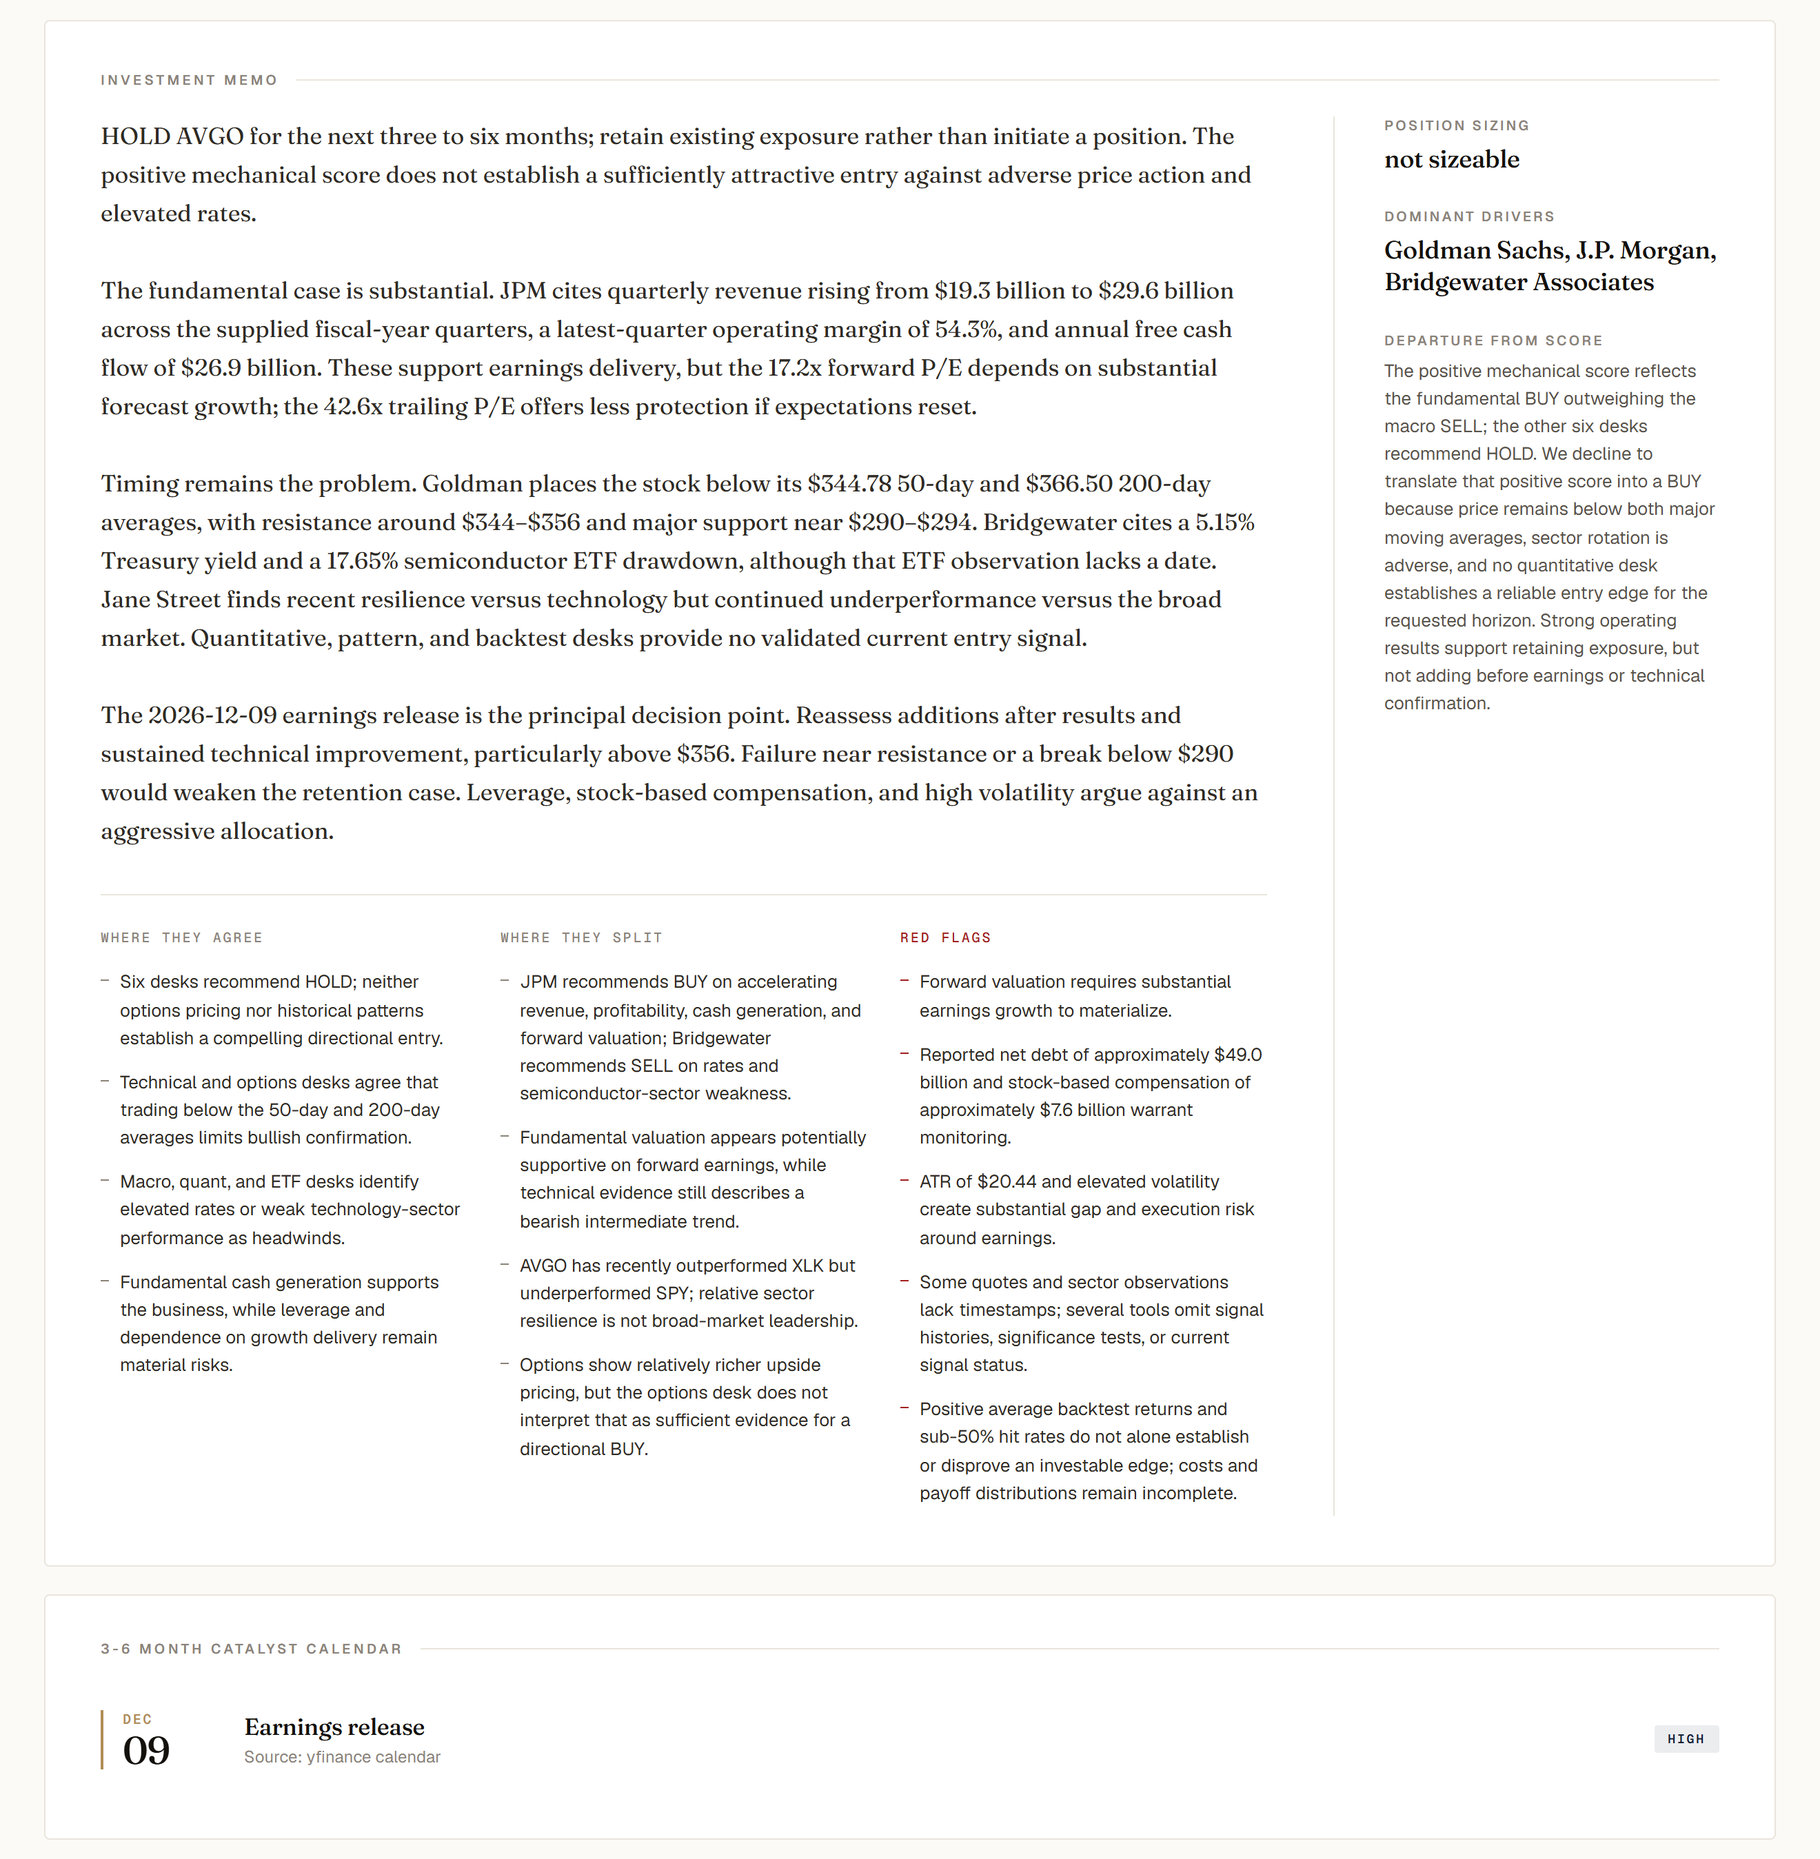
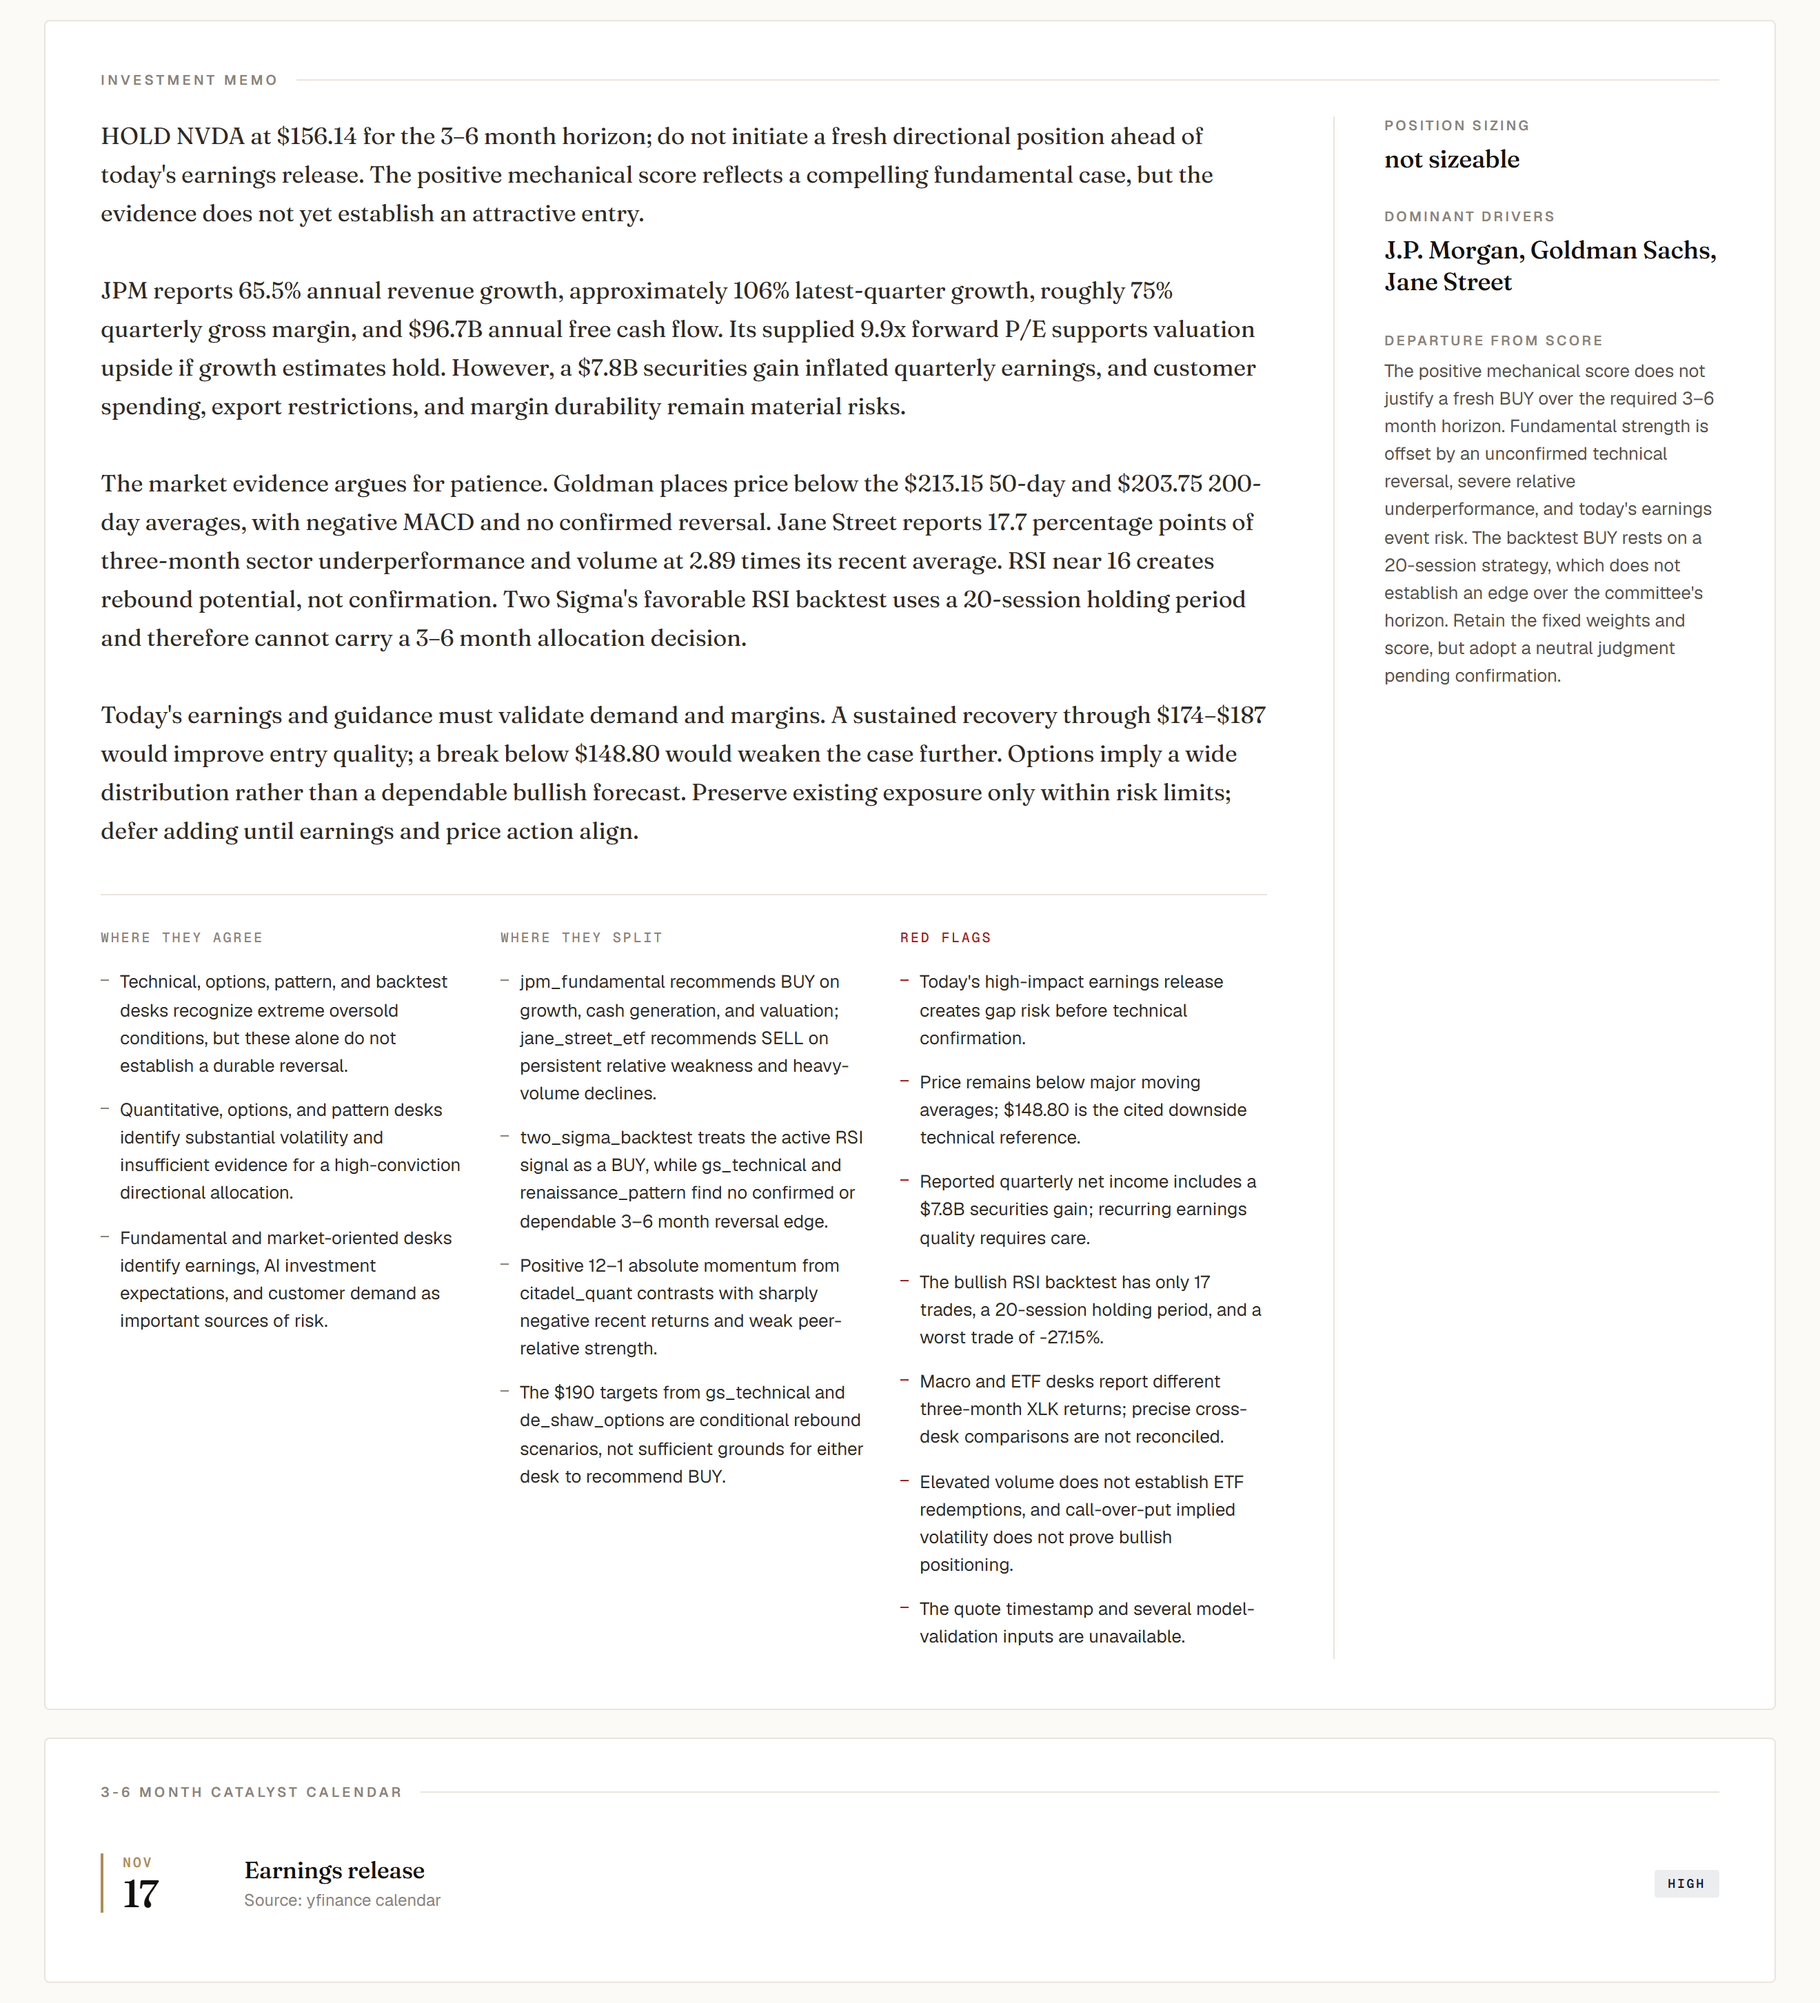
polish(ui): restore tab, spinner and page styling under Gradio 6.32; history refreshes on open; README shows a live run
The Gradio upgrade renamed the tab strip and dropped the spinner's border,
so both had silently fallen back to defaults. History now reloads when the
tab opens instead of polling. README screenshots come from an end-to-end
NVDA run driven through the web UI, including the live progress card.

Claude-Session: https://claude.ai/code/session_017hq6XL2Prx1LLnTUxuNErU

diff --git a/equity_trader/ui.css b/equity_trader/ui.css
@@ -56,6 +56,7 @@
   -webkit-font-smoothing: antialiased;
   -moz-osx-font-smoothing: grayscale;
 }
+body, gradio-app { background: var(--paper) !important; }
 .gradio-container {
   background: var(--paper) !important;
   color: var(--ink-1) !important;
@@ -65,8 +66,8 @@
 }
 .gradio-container .prose { color: var(--ink-2); }
 footer, .show-api, .built-with, .footer { display: none !important; }
-.tabs > .tab-nav { border-bottom: 1px solid var(--border) !important; padding: 0 32px !important; }
-.tabs > .tab-nav button {
+.tabs .tab-container { border-bottom: 1px solid var(--border) !important; padding: 0 32px !important; }
+.tabs .tab-container button {
   font-family: var(--font-body) !important;
   font-size: 12px !important;
   font-weight: 500 !important;
@@ -81,10 +82,11 @@ footer, .show-api, .built-with, .footer { display: none !important; }
   border-radius: 0 !important;
   transition: color 0.2s ease, border-color 0.2s ease !important;
 }
-.tabs > .tab-nav button:hover { color: var(--ink-2) !important; }
-.tabs > .tab-nav button.selected {
+.tabs .tab-container button::after { display: none !important; }
+.tabs .tab-container button:hover { color: var(--ink-2) !important; }
+.tabs .tab-container button.selected {
   color: var(--navy) !important;
-  border-bottom-color: var(--gold) !important;
+  box-shadow: inset 0 -2px 0 var(--gold) !important;
 }
 
 /* ============================================================
@@ -955,8 +957,10 @@ footer, .show-api, .built-with, .footer { display: none !important; }
 .loading-mark {
   width: 56px;
   height: 56px;
-  border: 1.5px solid var(--navy);
-  border-top-color: transparent;
+  /* Longhands: Gradio drops a border shorthand that a longhand then overrides */
+  border-style: solid;
+  border-width: 1.5px;
+  border-color: transparent var(--navy) var(--navy) var(--navy);
   border-radius: 50%;
   margin: 0 auto 24px;
   animation: spin 1.1s linear infinite;

diff --git a/app.py b/app.py
@@ -489,19 +489,20 @@ with gr.Blocks(title="EquityTrader", fill_width=True) as demo:
         with gr.Row(elem_classes="report"):
             report = gr.HTML(_welcome_html())
 
-        run_btn.click(analyze, inputs=ticker, outputs=report)
-        ticker.submit(analyze, inputs=ticker, outputs=report)
+        # The loading card is the progress display; hide Gradio's own.
+        run_btn.click(analyze, inputs=ticker, outputs=report, show_progress="hidden")
+        ticker.submit(analyze, inputs=ticker, outputs=report, show_progress="hidden")
 
-    with gr.Tab("History"):
+    with gr.Tab("History") as history_tab:
         with gr.Row(elem_classes="history-wrap"):
-            gr.Dataframe(
+            history = gr.Dataframe(
                 value=history_table,
-                headers=["Ticker", "Timestamp", "Rec", "Conviction", "Score", "Target"],
-                every=10,
+                headers=["Ticker", "Run (UTC)", "Call", "Conv.", "Score", "Target"],
                 elem_classes="history-table",
                 interactive=False,
                 wrap=False,
             )
+    history_tab.select(history_table, outputs=history)
 
 
 if __name__ == "__main__":

diff --git a/README.md b/README.md
@@ -23,6 +23,7 @@
 
 <a href="#quick-start">Quick start</a> &nbsp;&middot;&nbsp;
 <a href="#the-committee">The committee</a> &nbsp;&middot;&nbsp;
+<a href="#a-run-live">A run, live</a> &nbsp;&middot;&nbsp;
 <a href="#the-report">The report</a> &nbsp;&middot;&nbsp;
 <a href="#architecture">Architecture</a> &nbsp;&middot;&nbsp;
 <a href="#how-the-verdict-is-computed">Scoring</a>
@@ -31,7 +32,7 @@
 
 <br>
 
-<img src="docs/screenshots/verdict.png" width="100%" alt="The verdict card for AVGO: recommendation, conviction, current price, 6-month target and committee score.">
+<img src="docs/screenshots/verdict.png" width="100%" alt="The verdict card for NVDA: recommendation, conviction, current price, 6-month target and committee score.">
 
 <br>
 
@@ -69,6 +70,14 @@ Each desk has its own analysis framework, its own tools and its own voice. All e
 
 <br>
 
+## A run, live
+
+Each desk's call appears the moment it reports, so a run that takes a minute or two is never a blank spinner. The terminal report shows the same progress.
+
+<img src="docs/screenshots/progress.png" width="100%" alt="The loading card mid-run: desks that have reported show their call, the rest are still working.">
+
+<br>
+
 ## The report
 
 The chair writes a portfolio manager memo, names where the desks agree and where they split, flags what could break the call, and suggests a position size. The catalyst calendar is fetched live from market data, so the dates are real.
@@ -92,6 +101,7 @@ Every desk's reasoning stays on the page. Nothing is averaged away.
 - **Rate-limit aware fan-out.** A semaphore runs three agents at a time, with exponential backoff on `RateLimitError`.
 - **One fetch per run.** Data tools are memoized in a per-run `ContextVar` cache, so eight agents share fetches instead of hammering the APIs.
 - **Temporal grounding.** The orchestrator is handed today's date, the current price, and a real catalyst calendar. Any catalyst dated outside the horizon is dropped in code.
+- **Dated inputs.** Every reading a desk sees carries its observation date, and the backtest reports an unconditional baseline next to each rule, so a stale number or a fake edge is visible to the chair.
 - **Graceful degradation.** A failed desk is excluded and its weight is redistributed. Only the runner can mark a desk as failed. If the orchestrator call fails, a mechanical aggregation takes its place.
 
 <br>
@@ -124,7 +134,7 @@ uv sync
 ```
 
 ```bash
-uv run python run.py AAPL   # terminal report
+uv run python run.py NVDA   # terminal report
 uv run python app.py        # web UI at http://127.0.0.1:7860
 uv run gradio app.py        # web UI with hot reload
 ```
